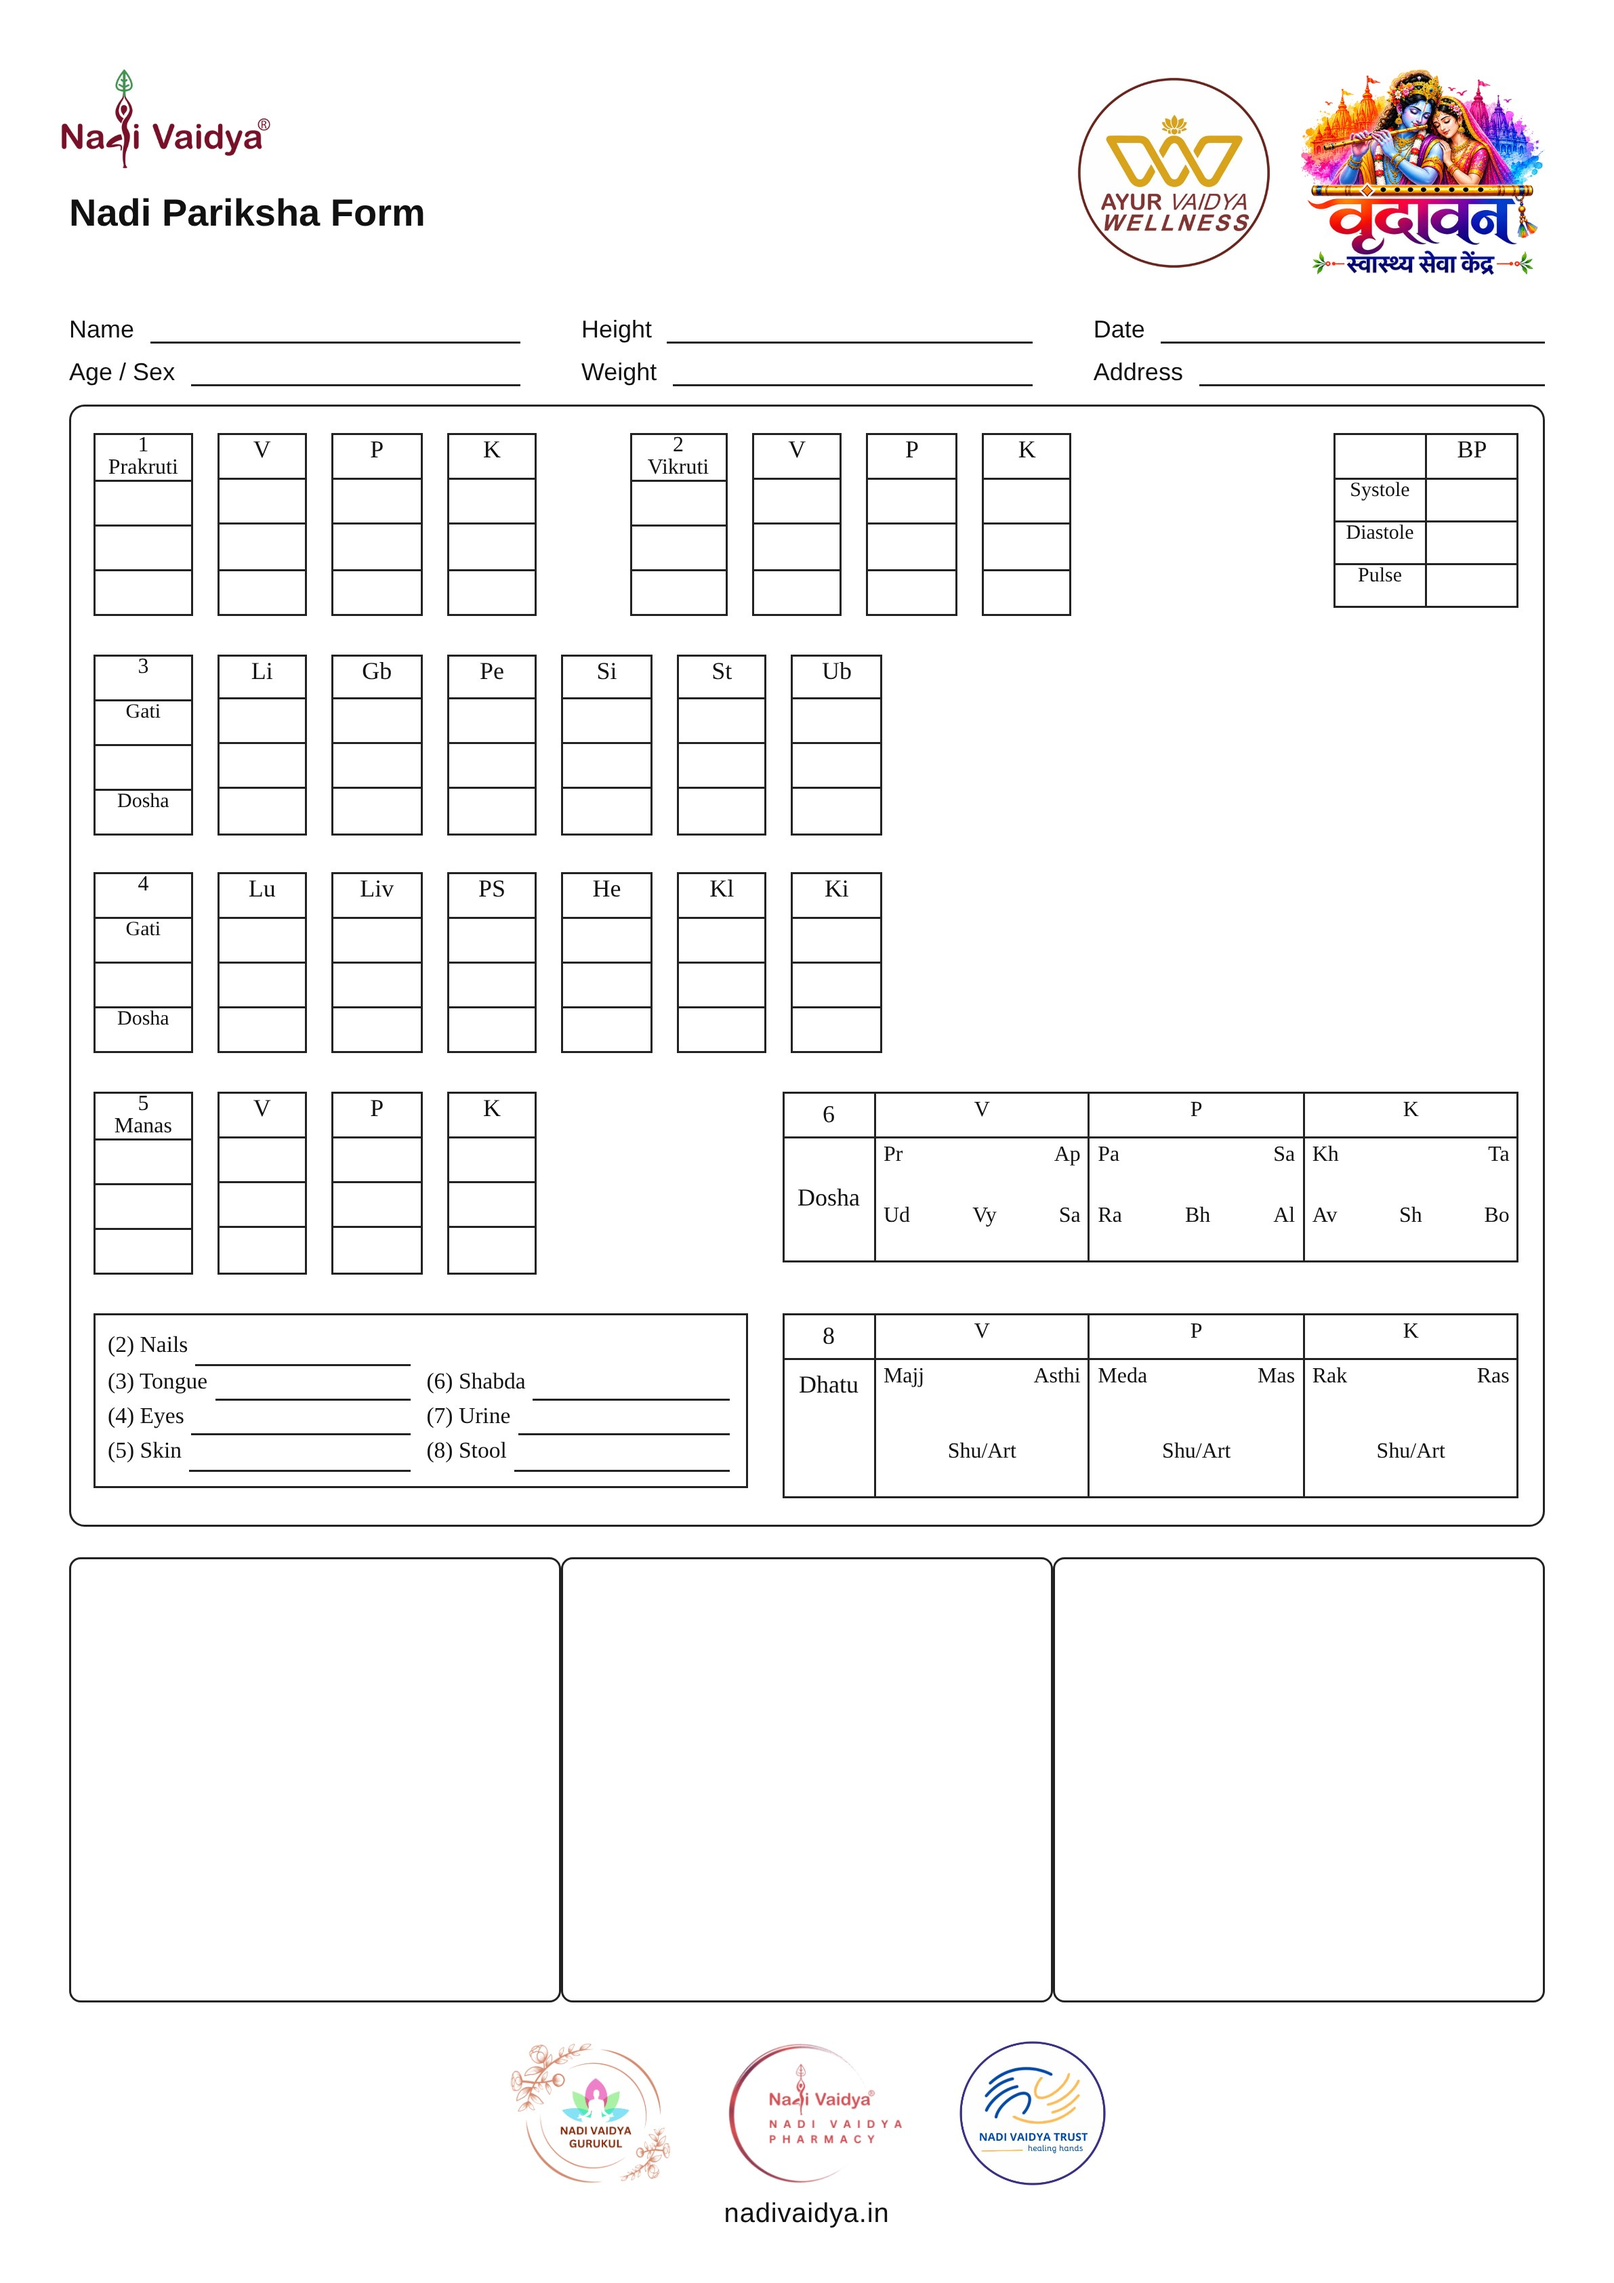
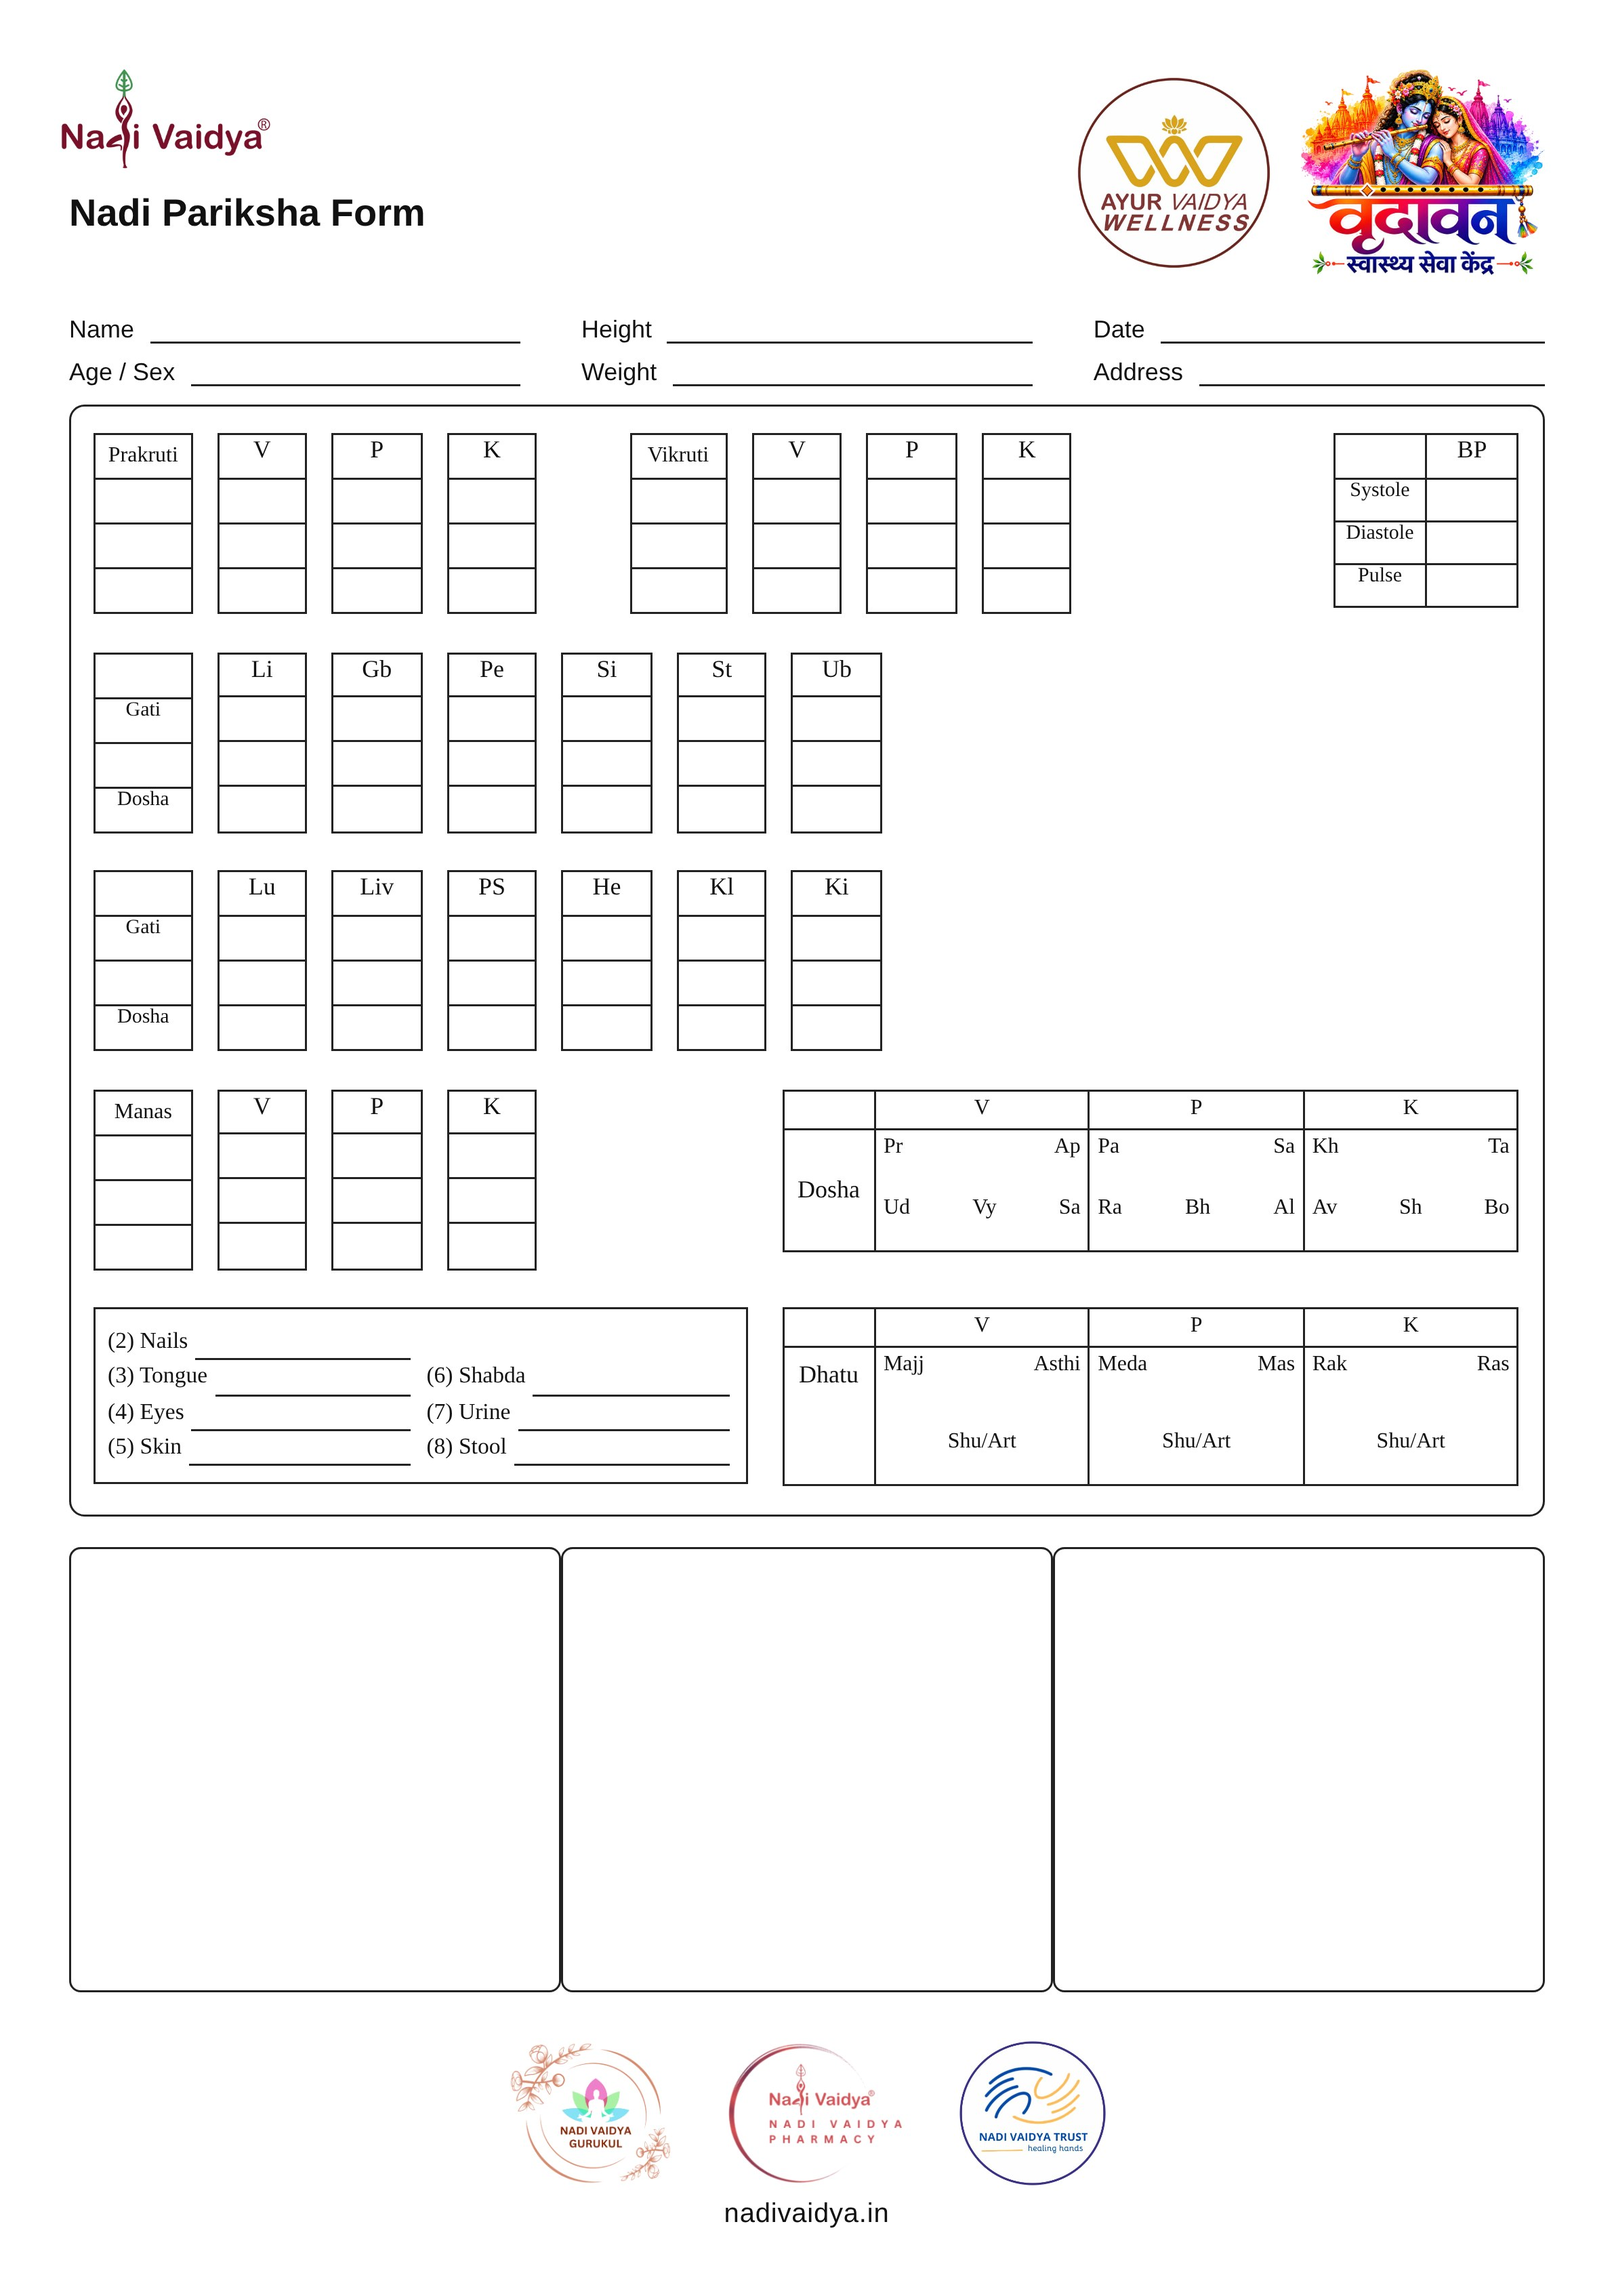
Nadi Pariksha form: remove section numbers (1 Prakruti, 2 Vikruti, 3/4 Gati, 5 Manas, 6 Dosha, 8 Dhatu)
Claude-Session: https://claude.ai/code/session_01BLAFPTXhjRoQfXaUvU6rvF

diff --git a/docs/forms/nadi-pariksha-form-src/form.html b/docs/forms/nadi-pariksha-form-src/form.html
@@ -19,7 +19,7 @@ td{border:.3mm solid #222;font-size:8pt;text-align:center;vertical-align:top}
 .col td.h{font-size:9pt;height:5.6mm}
 .blk{display:inline-flex;gap:3.2mm;vertical-align:top}
 .lab{width:12.5mm}.lab td{width:12.5mm;height:5.8mm;font-size:7.5pt}
-.lab td.n{font-size:8pt}
+.lab td.n{font-size:8pt;vertical-align:middle}
 .row{display:flex;align-items:flex-start;margin-bottom:5mm}
 .bp td{height:5.6mm;font-size:7.5pt}
 .bp td:first-child{width:12mm}
@@ -55,13 +55,13 @@ td{border:.3mm solid #222;font-size:8pt;text-align:center;vertical-align:top}
  <div class="row" style="justify-content:space-between">
   <div style="display:flex;gap:12mm">
    <div class="blk">
-    <table class="lab"><tr><td class="n">1<br>Prakruti</td></tr><tr><td></td></tr><tr><td></td></tr><tr><td></td></tr></table>
+    <table class="lab"><tr><td class="n">Prakruti</td></tr><tr><td></td></tr><tr><td></td></tr><tr><td></td></tr></table>
     <table class="col"><tr><td class="h">V</td></tr><tr><td></td></tr><tr><td></td></tr><tr><td></td></tr></table>
     <table class="col"><tr><td class="h">P</td></tr><tr><td></td></tr><tr><td></td></tr><tr><td></td></tr></table>
     <table class="col"><tr><td class="h">K</td></tr><tr><td></td></tr><tr><td></td></tr><tr><td></td></tr></table>
    </div>
    <div class="blk">
-    <table class="lab"><tr><td class="n">2<br>Vikruti</td></tr><tr><td></td></tr><tr><td></td></tr><tr><td></td></tr></table>
+    <table class="lab"><tr><td class="n">Vikruti</td></tr><tr><td></td></tr><tr><td></td></tr><tr><td></td></tr></table>
     <table class="col"><tr><td class="h">V</td></tr><tr><td></td></tr><tr><td></td></tr><tr><td></td></tr></table>
     <table class="col"><tr><td class="h">P</td></tr><tr><td></td></tr><tr><td></td></tr><tr><td></td></tr></table>
     <table class="col"><tr><td class="h">K</td></tr><tr><td></td></tr><tr><td></td></tr><tr><td></td></tr></table>
@@ -77,13 +77,13 @@ td{border:.3mm solid #222;font-size:8pt;text-align:center;vertical-align:top}
  <!-- row 4: Manas + Dosha -->
  <div class="row two">
   <div class="blk">
-   <table class="lab"><tr><td class="n">5<br>Manas</td></tr><tr><td></td></tr><tr><td></td></tr><tr><td></td></tr></table>
+   <table class="lab"><tr><td class="n">Manas</td></tr><tr><td></td></tr><tr><td></td></tr><tr><td></td></tr></table>
    <table class="col"><tr><td class="h">V</td></tr><tr><td></td></tr><tr><td></td></tr><tr><td></td></tr></table>
    <table class="col"><tr><td class="h">P</td></tr><tr><td></td></tr><tr><td></td></tr><tr><td></td></tr></table>
    <table class="col"><tr><td class="h">K</td></tr><tr><td></td></tr><tr><td></td></tr><tr><td></td></tr></table>
   </div>
   <table class="sub" style="width:96mm">
-   <tr class="hd"><td class="lbl">6</td><td>V</td><td>P</td><td>K</td></tr>
+   <tr class="hd"><td class="lbl"></td><td>V</td><td>P</td><td>K</td></tr>
    <tr><td class="lbl" style="vertical-align:middle">Dosha</td>
     <td style="height:16mm;text-align:left;position:relative"><div style="display:flex;justify-content:space-between">Pr<span>Ap</span></div><div style="display:flex;justify-content:space-between;margin-top:5mm">Ud<span>Vy</span><span>Sa</span></div></td>
     <td style="text-align:left"><div style="display:flex;justify-content:space-between">Pa<span>Sa</span></div><div style="display:flex;justify-content:space-between;margin-top:5mm">Ra<span>Bh</span><span>Al</span></div></td>
@@ -101,7 +101,7 @@ td{border:.3mm solid #222;font-size:8pt;text-align:center;vertical-align:top}
    <div class="r"><div class="f">(5) Skin <span></span></div><div class="f">(8) Stool <span></span></div></div>
   </div>
   <table class="sub" style="width:96mm">
-   <tr class="hd"><td class="lbl">8</td><td>V</td><td>P</td><td>K</td></tr>
+   <tr class="hd"><td class="lbl"></td><td>V</td><td>P</td><td>K</td></tr>
    <tr><td class="lbl" style="vertical-align:top;padding-top:1.5mm">Dhatu</td>
     <td style="height:18mm"><div style="display:flex;justify-content:space-between">Majj<span>Asthi</span></div><div style="margin-top:7mm">Shu/Art</div></td>
     <td><div style="display:flex;justify-content:space-between">Meda<span>Mas</span></div><div style="margin-top:7mm">Shu/Art</div></td>
@@ -122,7 +122,7 @@ td{border:.3mm solid #222;font-size:8pt;text-align:center;vertical-align:top}
 <script>
 function gati(id,num,cols){
   const el=document.getElementById(id);
-  let h='<table class="lab"><tr><td class="n">'+num+'</td></tr><tr><td>Gati</td></tr><tr><td></td></tr><tr><td>Dosha</td></tr></table>';
+  let h='<table class="lab"><tr><td class="n"></td></tr><tr><td>Gati</td></tr><tr><td></td></tr><tr><td>Dosha</td></tr></table>';
   for(const c of cols) h+='<table class="col"><tr><td class="h">'+c+'</td></tr><tr><td></td></tr><tr><td></td></tr><tr><td></td></tr></table>';
   el.innerHTML=h;
 }
